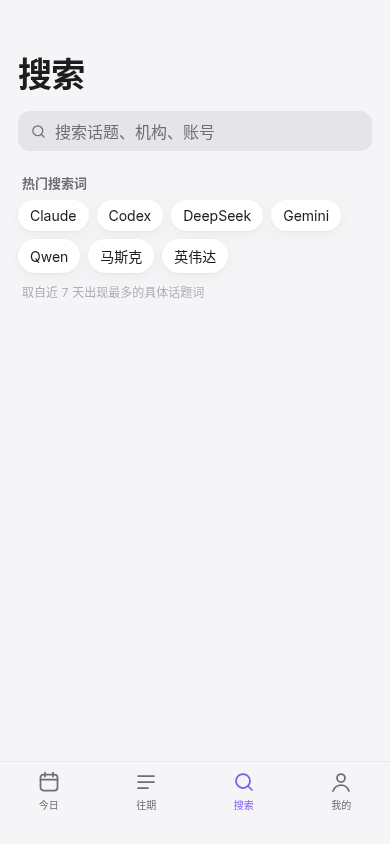
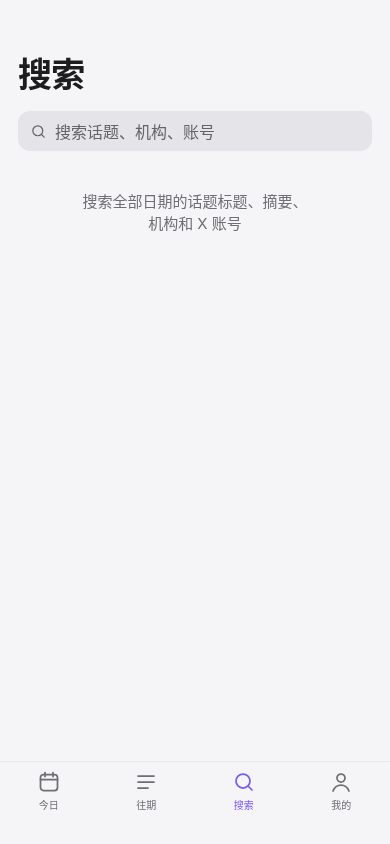
docs(design): #20 复核修改：补 404 两种状态；说明文字改 text-2，灰底文字 #636369；删除热门搜索词；mockup 日期改为从数据计算 (refs #11 #12)

diff --git a/docs/design/pages-mockup.html b/docs/design/pages-mockup.html
@@ -60,13 +60,14 @@ body{background:var(--bg);color:var(--text);font-family:"Inter","Noto Sans CJK S
 .lrow .sub{font-size:13px;color:var(--t2)}.lrow .r{margin-left:auto;color:var(--t3);display:flex;align-items:center;gap:6px;font-size:15px}
 .grp{font-size:13px;font-weight:600;color:var(--t2);margin:22px 4px 8px}
 .ico{width:30px;height:30px;border-radius:8px;display:flex;align-items:center;justify-content:center;color:#fff;flex:none}
-.sf{display:flex;align-items:center;gap:8px;background:var(--s2);border-radius:12px;height:40px;padding:0 12px;color:var(--t2);font-size:16px}
+.sf{display:flex;align-items:center;gap:8px;background:var(--s2);border-radius:12px;height:40px;padding:0 12px;color:var(--t2s);font-size:16px}
 mark{background:var(--bs);color:var(--bt);border-radius:4px;padding:0 2px}
 .stk{display:flex;height:14px;border-radius:7px;overflow:hidden;gap:2px}
 .tg{display:inline-flex;align-items:center;gap:6px;font-size:14px;padding:7px 12px;border-radius:99px;background:var(--surface);box-shadow:var(--sh)}
 .sheet{position:fixed;left:0;right:0;bottom:0;background:var(--surface);border-radius:22px 22px 0 0;padding:10px 18px 40px}
 .input{height:46px;border-radius:12px;background:var(--s2);display:flex;align-items:center;padding:0 14px;font-size:16px}
 .followhl{box-shadow:inset 0 0 0 1.5px var(--brand),var(--sh)}
+:root{--t2s:#636369}.dark{--t2s:#98989D}
 </style></head><body><div id="app"></div><script>
 const Q=new URLSearchParams(location.search),view=Q.get('v')||'home',dark=Q.get('t')==='dark';if(dark)document.body.classList.add('dark');
 const I={search:'<circle cx="11" cy="11" r="7"/><path d="M20 20l-3.5-3.5"/>',share:'<path d="M12 3v12M7.5 7.5L12 3l4.5 4.5M5 13v6a2 2 0 002 2h10a2 2 0 002-2v-6"/>',today:'<rect x="3.5" y="4.5" width="17" height="16" rx="3"/><path d="M3.5 9.5h17M8 2.5v4M16 2.5v4"/>',past:'<path d="M4 6h16M4 12h16M4 18h10"/>',me:'<circle cx="12" cy="8" r="4"/><path d="M4 21c1.5-4 4.5-6 8-6s6.5 2 8 6"/>',back:'<path d="M15 5l-7 7 7 7"/>',chev:'<path d="M9 5l7 7-7 7"/>',spark:'<path d="M12 3v4M12 17v4M3 12h4M17 12h4"/>',star:'<path d="M12 3.5l2.6 5.3 5.9.9-4.3 4.1 1 5.8L12 16.9l-5.2 2.7 1-5.8L3.5 9.7l5.9-.9z"/>',bm:'<path d="M6 3.5h12v17l-6-4-6 4z"/>',link:'<path d="M10 14a4 4 0 005.7 0l3-3a4 4 0 00-5.7-5.7l-1 1M14 10a4 4 0 00-5.7 0l-3 3a4 4 0 005.7 5.7l1-1"/>',img:'<rect x="3.5" y="4.5" width="17" height="15" rx="3"/><circle cx="9" cy="10" r="1.8"/><path d="M20.5 16l-5-5-8 8.5"/>',ext:'<path d="M14 4h6v6M20 4l-9 9M18 14v5a1 1 0 01-1 1H5a1 1 0 01-1-1V7a1 1 0 011-1h5"/>'};
@@ -76,41 +77,41 @@ const fmt=n=>n>=1e4?(n/1e4).toFixed(n>=1e5?0:1)+' 万':n.toLocaleString();
 
 const CC={'大模型':'#7D5AF0','产品':'#34C759','政策':'#FF9500','中文圈':'#FF2D55','科研':'#5AC8FA','融资':'#AF52DE','开源':'#30B0C7','安全':'#FF3B30','芯片':'#A2845E','就业':'#8E8E93'};
 fetch('../../data/2026-10-10.json').then(r=>r.json()).then(d=>{
- const S=d.stories, wd='星期六';
+ const S=d.stories;const [Y,Mo,Da]=d.date.split('-').map(Number);const dt=new Date(Date.UTC(Y,Mo-1,Da));const WDN='日一二三四五六';const MD=`${Mo}月${Da}日`,WD='星期'+WDN[dt.getUTCDay()],WS='周'+WDN[dt.getUTCDay()];
+ const dow=(dt.getUTCDay()+6)%7;const mon=new Date(dt-dow*864e5),sun=new Date(+mon+6*864e5);const th=new Date(+dt+(3-dow)*864e5);const wk=1+Math.round((th-Date.UTC(th.getUTCFullYear(),0,4))/864e5/7-(3-((new Date(Date.UTC(th.getUTCFullYear(),0,4)).getUTCDay()+6)%7))/7);const fm=x=>`${x.getUTCMonth()+1}月${x.getUTCDate()}日`;const EARLY=MD;
  const tab=(on)=>`<div class="tab">${[['today','今日'],['past','往期'],['search','搜索'],['me','我的']].map(([i,n])=>`<div class="${n===on?'on':''}">${ic(i)}${n}</div>`).join('')}</div>`;
  const top=(t,sub)=>`<div class="lt" style="margin:0 0 ${sub?2:16}px">${t}</div>${sub?`<div style="font-size:13px;color:var(--t2);margin-bottom:16px">${sub}</div>`:''}`;
  const seg3=on=>`<div class="seg" style="margin-bottom:18px">${['日报','趋势','周报'].map(x=>`<span class="${x===on?'on':''}">${x}</span>`).join('')}</div>`;
- const mini=(s,extra='')=>`<div class="card ${extra}" style="padding:14px 16px"><div class="meta" style="margin-bottom:6px">${extra?'<span class="pill new">'+ic('star','width:12px;height:12px')+' 关注</span>':'<span class="pill new">新</span>'}${s.org_tag} · 10月10日</div><h3 class="cl2" style="font-size:16px;line-height:22px;margin:0">${s.headline_zh}</h3></div>`;
+ const mini=(s,extra='')=>`<div class="card ${extra}" style="padding:14px 16px"><div class="meta" style="margin-bottom:6px">${extra?'<span class="pill new">'+ic('star','width:12px;height:12px')+' 关注</span>':'<span class="pill new">新</span>'}${s.org_tag} · ${MD}</div><h3 class="cl2" style="font-size:16px;line-height:22px;margin:0">${s.headline_zh}</h3></div>`;
  let h='';
  const v=view;
  if(v==='archive'){h=`<div style="padding:54px 18px 110px">${top('往期')}${seg3('日报')}
-  <div class="grp">2026 年 10 月</div><div class="block" style="padding:0">
-  <div class="lrow"><div style="width:44px;text-align:center"><div style="font-size:22px;font-weight:700;line-height:1">10</div><div style="font-size:11px;color:var(--t2)">周六</div></div><div style="flex:1;min-width:0"><div style="font-weight:600">今日三件事 · ${S.length} 个话题</div><div class="sub cl2" style="margin-top:2px">${d.highlights[0]}</div></div><span class="r">${ic('chev','width:15px;height:15px')}</span></div></div>
-  <div style="text-align:center;font-size:13px;color:var(--t2);margin-top:18px;line-height:20px">日报从 10 月 10 日开始，每天 08:50 左右更新。<br>满两天以后，可以在"趋势"里看热度变化。</div></div>${tab('往期')}`}
+  <div class="grp">${Y} 年 ${Mo} 月</div><div class="block" style="padding:0">
+  <div class="lrow"><div style="width:44px;text-align:center"><div style="font-size:22px;font-weight:700;line-height:1">${Da}</div><div style="font-size:11px;color:var(--t2)">${WS}</div></div><div style="flex:1;min-width:0"><div style="font-weight:600">今日三件事 · ${S.length} 个话题</div><div class="sub cl2" style="margin-top:2px">${d.highlights[0]}</div></div><span class="r">${ic('chev','width:15px;height:15px')}</span></div></div>
+  <div style="text-align:center;font-size:13px;color:var(--t2);margin-top:18px;line-height:20px">日报从 ${EARLY.replace("月"," 月 ").replace("日"," 日")}开始，每天 08:50 左右更新。<br>满两天以后，可以在"趋势"里看热度变化。</div></div>${tab('往期')}`}
  if(v==='trend'){const cats={};S.forEach(s=>s.categories.forEach(c=>cats[c]=(cats[c]||0)+1));const cs=Object.entries(cats).sort((a,b)=>b[1]-a[1]);const tot=cs.reduce((a,b)=>a+b[1],0);
   const tops={};S.forEach(s=>s.topics.forEach(t=>tops[t]=(tops[t]||0)+1));const ts=Object.entries(tops).sort((a,b)=>b[1]-a[1]).slice(0,6);
   h=`<div style="padding:54px 18px 110px">${top('往期')}${seg3('趋势')}
   <div class="block" style="margin-bottom:12px"><div class="lab">每日分类分布</div><div style="display:flex;align-items:center;gap:10px;margin-top:8px"><span style="font-size:13px;color:var(--t2);width:40px">10/10</span><div class="stk" style="flex:1">${cs.map(([c,n])=>`<i style="flex:${n};background:${CC[c]||'#8E8E93'}"></i>`).join('')}</div></div>
   <div style="display:flex;flex-wrap:wrap;gap:6px 14px;margin-top:14px">${cs.map(([c,n])=>`<span style="font-size:12px;color:var(--t2);display:flex;align-items:center;gap:5px"><i style="width:8px;height:8px;border-radius:50%;background:${CC[c]||'#8E8E93'}"></i>${c} ${n}</span>`).join('')}</div>
-  <div style="font-size:12px;color:var(--t3);margin-top:12px">目前只有 1 天数据，每多一天就多一行。</div></div>
+  <div style="font-size:12px;color:var(--t2);margin-top:12px">目前只有 1 天数据，每多一天就多一行。</div></div>
   <div class="block" style="padding:0;margin-bottom:12px"><div class="lab" style="padding:14px 16px 0">分类累计</div>${cs.slice(0,5).map(([c,n])=>`<div class="lrow"><i style="width:10px;height:10px;border-radius:3px;background:${CC[c]}"></i>${c}<span class="r" style="color:var(--t2)">${n} 个话题 · ${Math.round(n/tot*100)}%</span></div>`).join('')}</div>
   <div class="block" style="padding:0"><div class="lab" style="padding:14px 16px 0">高频话题词</div>${ts.map(([t,n])=>`<div class="lrow">${t}<span class="r" style="color:var(--t2)">${n} 次</span></div>`).join('')}</div></div>${tab('往期')}`}
  if(v==='weekly'){const T=[...S].sort((a,b)=>b.heat-a.heat).slice(0,10);
   h=`<div style="padding:54px 18px 110px">${top('往期')}${seg3('周报')}
-  <div style="display:flex;align-items:center;justify-content:space-between;margin-bottom:14px"><span style="color:var(--t3)">${ic('back','width:20px;height:20px')}</span><div style="text-align:center"><div style="font-size:17px;font-weight:700">2026 年第 41 周</div><div style="font-size:13px;color:var(--t2)">10月5日 – 10月11日 · <span style="color:var(--bt);font-weight:600">截至今天</span></div></div><span style="color:var(--t3);opacity:.4">${ic('chev','width:20px;height:20px')}</span></div>
+  <div style="display:flex;align-items:center;justify-content:space-between;margin-bottom:14px"><span style="color:var(--t3)">${ic('back','width:20px;height:20px')}</span><div style="text-align:center"><div style="font-size:17px;font-weight:700">${th.getUTCFullYear()} 年第 ${wk} 周</div><div style="font-size:13px;color:var(--t2)">${fm(mon)} – ${fm(sun)} · <span style="color:var(--bt);font-weight:600">截至今天</span></div></div><span style="color:var(--t3);opacity:.4">${ic('chev','width:20px;height:20px')}</span></div>
   <div class="sec" style="font-size:17px;margin-bottom:10px">本周 Top 10</div>
-  <div class="block" style="padding:0;margin-bottom:22px">${T.map((s,i)=>`<div class="lrow" style="align-items:flex-start"><b style="width:18px;color:${i<3?'var(--bt)':'var(--t3)'};font-weight:700">${i+1}</b><div style="flex:1;min-width:0"><div class="cl2" style="font-size:15px;line-height:21px">${s.headline_zh}</div><div class="sub" style="margin-top:3px">${s.org_tag} · 10月10日 · 热度 ${s.heat}</div></div></div>`).join('')}</div>
+  <div class="block" style="padding:0;margin-bottom:22px">${T.map((s,i)=>`<div class="lrow" style="align-items:flex-start"><b style="width:18px;color:${i<3?'var(--bt)':'var(--t2)'};font-weight:700">${i+1}</b><div style="flex:1;min-width:0"><div class="cl2" style="font-size:15px;line-height:21px">${s.headline_zh}</div><div class="sub" style="margin-top:3px">${s.org_tag} · ${MD} · 热度 ${s.heat}</div></div></div>`).join('')}</div>
   <div class="sec" style="font-size:17px;margin-bottom:10px">反复出现的话题</div>
   <div class="block"><div class="first"><div class="dot">${ic('spark')}</div><div><div style="font-size:15px;font-weight:600">本周还没有反复出现的话题</div><div style="font-size:13px;color:var(--t2);margin-top:2px">同一个话题在 2 天及以上出现过，才会列在这里</div></div></div></div>
   <div class="btn s" style="margin-top:16px">${ic('img')}保存周报图</div></div>${tab('往期')}`}
  if(v==='search'){const q='Claude';const R=S.filter(s=>(s.headline_zh+s.summary_zh+s.topics.join()).includes(q));const hl=t=>t.split(q).join('<mark>'+q+'</mark>');
   h=`<div style="padding:54px 18px 110px">${top('搜索')}<div class="sf" style="margin-bottom:12px;color:var(--text)">${ic('search','width:17px;height:17px;color:var(--t2)')}${q}<span style="margin-left:auto;width:18px;height:18px;border-radius:50%;background:var(--t3);color:var(--surface);display:flex;align-items:center;justify-content:center;font-size:11px">✕</span></div>
-  <div style="display:flex;gap:8px;margin-bottom:16px;flex-wrap:wrap"><span class="pill" style="background:var(--text);color:var(--bg);padding:5px 12px">全部 ${R.length}</span><span class="pill" style="background:var(--s2);color:var(--t2);padding:5px 12px">产品</span><span class="pill" style="background:var(--s2);color:var(--t2);padding:5px 12px">大模型</span><span class="pill" style="background:var(--s2);color:var(--t2);padding:5px 12px">安全</span></div>
+  <div style="display:flex;gap:8px;margin-bottom:16px;flex-wrap:wrap"><span class="pill" style="background:var(--text);color:var(--bg);padding:5px 12px">全部 ${R.length}</span><span class="pill" style="background:var(--s2);color:var(--t2s);padding:5px 12px">产品</span><span class="pill" style="background:var(--s2);color:var(--t2s);padding:5px 12px">大模型</span><span class="pill" style="background:var(--s2);color:var(--t2s);padding:5px 12px">安全</span></div>
   <div style="font-size:13px;color:var(--t2);margin:0 4px 10px">找到 ${R.length} 个话题，范围是全部日期</div>
-  <div style="display:grid;gap:12px">${R.map(s=>`<div class="card"><div class="meta">${s.org_tag} · 10月10日</div><h3 class="cl2">${hl(s.headline_zh)}</h3><p class="cl2">${hl(s.summary_zh)}</p></div>`).join('')}</div></div>${tab('搜索')}`}
+  <div style="display:grid;gap:12px">${R.map(s=>`<div class="card"><div class="meta">${s.org_tag} · ${MD}</div><h3 class="cl2">${hl(s.headline_zh)}</h3><p class="cl2">${hl(s.summary_zh)}</p></div>`).join('')}</div></div>${tab('搜索')}`}
  if(v==='searchempty'){h=`<div style="padding:54px 18px 110px">${top('搜索')}<div class="sf" style="margin-bottom:22px">${ic('search','width:17px;height:17px')}搜索话题、机构、账号</div>
-  <div class="grp" style="margin-top:0">热门搜索词</div><div style="display:flex;flex-wrap:wrap;gap:8px">${['Claude','Codex','DeepSeek','Gemini','Qwen','马斯克','英伟达'].map(t=>`<span class="tg">${t}</span>`).join('')}</div>
-  <div style="font-size:12px;color:var(--t3);margin:10px 4px 0">取自近 7 天出现最多的具体话题词</div></div>${tab('搜索')}`}
+  <div style="text-align:center;font-size:15px;color:var(--t2);line-height:22px;margin-top:40px">搜索全部日期的话题标题、摘要、<br>机构和 X 账号</div></div>${tab('搜索')}`}
  if(v==='me'){h=`<div style="padding:54px 18px 110px">${top('我的')}
   <div class="block" style="padding:0"><div class="lrow"><div class="ico" style="background:#FF9500">${ic('bm','width:17px;height:17px')}</div><div>收藏</div><span class="r"><span style="color:var(--t2)">2</span>${ic('chev','width:15px;height:15px')}</span></div>
   <div class="lrow"><div class="ico" style="background:#7D5AF0">${ic('star','width:17px;height:17px')}</div><div>关注</div><span class="r"><span style="color:var(--t2)">3</span>${ic('chev','width:15px;height:15px')}</span></div></div>
@@ -118,9 +119,9 @@ fetch('../../data/2026-10-10.json').then(r=>r.json()).then(d=>{
   <div class="grp">设置</div><div class="block" style="padding:0"><div class="lrow">外观<span class="r" style="color:var(--text)"><span class="seg" style="width:150px">${dark?"<span>浅色</span><span class=\"on\">深色</span>":"<span class=\"on\">浅色</span><span>深色</span>"}</span></span></div>
   <div class="lrow"><div>导出数据<div class="sub">下载全部日报的 JSON</div></div><span class="r">${ic('chev','width:15px;height:15px')}</span></div>
   <div class="lrow"><div>关于 AI 热点日报<div class="sub">数据来源与更新时间</div></div><span class="r">${ic('chev','width:15px;height:15px')}</span></div></div>
-  <div style="font-size:12px;color:var(--t3);margin:14px 4px;line-height:18px">收藏和关注只保存在这台设备的浏览器里，换设备不会同步。上面的收藏数和关注项是示例。</div></div>${tab('我的')}`}
+  <div style="font-size:12px;color:var(--t2);margin:14px 4px;line-height:18px">收藏和关注只保存在这台设备的浏览器里，换设备不会同步。</div></div>${tab('我的')}`}
  if(v==='follow'){const F=S.filter(s=>s.org_tag==='Anthropic'||JSON.stringify(s).toLowerCase().includes('codex')||s.source_posts.some(p=>p.handle==='claudeai'));
-  h=`<div style="padding:54px 18px 110px"><div class="eyebrow">10月10日 星期六</div>${top('今日热点')}
+  h=`<div style="padding:54px 18px 110px"><div class="eyebrow">${MD} ${WD}</div>${top('今日热点')}
   <div class="seg" style="margin-bottom:12px"><span>全部</span><span class="on">关注 ${F.length}</span><span>大模型</span><span>产品</span><span>政策</span></div>
   <div style="display:flex;align-items:center;gap:6px;font-size:13px;color:var(--t2);margin:0 4px 12px">只看关注：Anthropic、Codex、@claudeai<span style="margin-left:auto;color:var(--bt)">管理</span></div>
   <div style="display:grid;gap:12px">${F.map(s=>{const why=s.org_tag==='Anthropic'?'Anthropic':(s.source_posts.some(p=>p.handle==='claudeai')?'@claudeai':'Codex');return `<div class="card followhl"><div class="meta"><span class="pill new">${ic('star','width:12px;height:12px')} ${why}</span>${s.org_tag} · ${s.source_posts.length} 条原帖</div><h3 class="cl2">${s.headline_zh}</h3><p class="cl2">${s.summary_zh}</p></div>`}).join('')}</div></div>${tab('今日')}`}
@@ -131,10 +132,12 @@ fetch('../../data/2026-10-10.json').then(r=>r.json()).then(d=>{
   <div class="input" style="margin-bottom:8px">Gemini<span style="margin-left:auto;width:2px;height:22px;background:var(--brand)"></span></div>
   <div style="font-size:13px;color:var(--t2);margin:0 4px 18px">会匹配标题、摘要、话题词和原帖内容，不区分大小写。</div>
   <div class="grp" style="margin-top:0">今天出现过的机构</div><div style="display:flex;flex-wrap:wrap;gap:8px">${[...new Set(S.map(s=>s.org_tag))].slice(0,8).map(o=>`<span class="tg" style="background:var(--s2);box-shadow:none">${o}</span>`).join('')}</div>
-  <div style="font-size:12px;color:var(--t3);margin:16px 4px 0">已关注 3 个，最多 50 个</div></div>`}
- if(v==='followempty'){h=`<div style="padding:54px 18px 110px"><div class="eyebrow">10月10日 星期六</div>${top('今日热点')}
+  <div style="font-size:12px;color:var(--t2);margin:16px 4px 0">已关注 3 个，最多 50 个</div></div>`}
+ if(v==='followempty'){h=`<div style="padding:54px 18px 110px"><div class="eyebrow">${MD} ${WD}</div>${top('今日热点')}
   <div class="seg" style="margin-bottom:40px"><span>全部</span><span class="on">关注</span><span>大模型</span><span>产品</span><span>政策</span></div>
   <div style="text-align:center;padding:0 24px"><div style="width:64px;height:64px;border-radius:18px;background:var(--bs);color:var(--bt);display:flex;align-items:center;justify-content:center;margin:0 auto 16px">${ic('star','width:30px;height:30px')}</div><div style="font-size:20px;font-weight:700;margin-bottom:6px">还没有关注任何内容</div><div style="font-size:15px;color:var(--t2);line-height:22px;margin-bottom:20px">关注账号、机构或关键词，相关话题会在首页高亮，也可以在这里只看它们。</div><div class="btn p" style="width:200px;margin:0 auto">添加关注</div></div></div>${tab('今日')}`}
+
+ if(v==='nf-day'||v==='nf-story'){const day=v==='nf-day';h=`<div style="padding:54px 18px 110px"><div style="text-align:center;padding:120px 24px 0"><div style="width:64px;height:64px;border-radius:18px;background:var(--bs);color:var(--bt);display:flex;align-items:center;justify-content:center;margin:0 auto 16px">${ic(day?'today':'search','width:30px;height:30px')}</div><div style="font-size:20px;font-weight:700;margin-bottom:6px">${day?'这一天没有日报':'找不到这个话题'}</div><div style="font-size:15px;color:var(--t2);line-height:22px;margin-bottom:24px">${day?`日报从 ${EARLY} 开始，每天早上更新`:'链接可能写错了，或者这个话题已经不在了'}</div><div class="btn p" style="width:200px;margin:0 auto">回到今日</div>${day?'<div class="btn s" style="width:200px;margin:10px auto 0">看往期</div>':''}</div></div>${tab('')}`}
  document.getElementById('app').innerHTML=h;
 });
 </script></body></html>

diff --git a/docs/design/pages-v1.md b/docs/design/pages-v1.md
@@ -2,10 +2,13 @@
 
 > 关联 Issue #11（F4 关注）、#12（F5 周报），需求以 PRD v6（`docs/product/PRD-v6.md`）为准，视觉以 `visual-spec-v1.md` 和 `tokens.css` 为准。
 > 内容来自真实数据 `data/2026-10-10.json`；收藏数和关注项（Anthropic、Codex、@claudeai）是示例。
-> 源文件是 [`pages-mockup.html`](pages-mockup.html)，在仓库根目录起静态服务后按 `?v=archive|trend|weekly|searchempty|search|me|follow|addfollow|followempty&t=light|dark` 打开。
+> 源文件是 [`pages-mockup.html`](pages-mockup.html)，在仓库根目录起静态服务后按 `?v=archive|trend|weekly|searchempty|search|me|follow|addfollow|followempty|nf-day|nf-story&t=light|dark` 打开。日期、星期、周编号都从数据里的 `date` 算出来，mockup 里没有写死。
 
 ![往期与搜索](assets/pages/overview-tabs.png)
 ![我的与 F4](assets/pages/overview-me-f4.png)
+![404](assets/pages/overview-404.png)
+
+**说明文字的颜色**：界面里所有说明性的小字（提示、上限、数据说明、序号）一律用 `text-2`，不用 `text-3`，因为 `text-3` 在浅色底上只有 2.0 到 2.8:1。`text-3` 只用于箭头、分隔这类非文字元素。灰底（`surface-2`）上的文字，浅色模式用 `#636369`（4.78:1），深色模式用 `text-2`。
 
 电脑端沿用高保真稿（`hifi-v1.md`）的三栏结构：左侧导航切到对应页，中间放本页内容，最大宽度和首页一致；右侧栏在这几页里不显示。深色模式只换 token，不另出版式。
 
@@ -26,15 +29,15 @@
 
 ### 1.3 周报（`weekly-mobile-light.png`），对应 F5
 - 周选择器：左右箭头加居中标题"2026 年第 41 周"，副标题"10月5日 – 10月11日"。本周没过完时，在副标题后面加紫色的"**截至今天**"（`brand-text`）；当前周的右箭头置灰。
-- **本周 Top 10**：一个白色块，每行是名次（前 3 名用 `brand-text`，其余用 `text-3`）、标题（最多两行）、"机构 · 日期 · 热度"。点击进入 `/story/<id>`。
+- **本周 Top 10**：一个白色块，每行是名次（前 3 名用 `brand-text`，其余用 `text-2`）、标题（最多两行）、"机构 · 日期 · 热度"。点击进入 `/story/<id>`。
 - **反复出现的话题**：每行是话题词和"N 天"；没有内容时用和详情页"首次出现"相同的空状态卡片，文案是"本周还没有反复出现的话题"。
 - 本周完全没有数据时，整页只显示一个空状态卡片：本周还没有日报。
 - 底部的"保存周报图"按钮先保留位置，周报分享图不在 v6 范围内，开发可以先不做。
 
 ## 2. 搜索 `/search?q=`
 
-- 初始状态（`searchempty-mobile-light.png`）：搜索框（`surface-2`，高 40，圆角 12），占位文字是"搜索话题、机构、账号"。下面是"热门搜索词"，取近 7 天出现最多的具体话题词（排除宽泛词），点一下就搜。
-- 结果状态（`search-mobile-light.png`）：分类筛选做成可横向滚动的 chips，第一个是"全部 N"，用深色实底；下面一行灰字写"找到 N 个话题，范围是全部日期"。结果卡片和首页卡片一样，元信息里加上日期，命中的文字用 `mark` 标出（`brand-soft` 底，`brand-text` 字，圆角 4）。
+- 初始状态（`searchempty-mobile-light.png`）：搜索框（`surface-2`，高 40，圆角 12），占位文字是"搜索话题、机构、账号"，颜色按上面灰底的规则。下面居中一行 `text-2` 说明："搜索全部日期的话题标题、摘要、机构和 X 账号"。（"热门搜索词"这次不做，贾维斯 2026-10-10 定的。）
+- 结果状态（`search-mobile-light.png`）：分类筛选做成可横向滚动的 chips，第一个是"全部 N"，用深色实底，其余 chips 是灰底，文字颜色按上面灰底的规则；下面一行灰字写"找到 N 个话题，范围是全部日期"。结果卡片和首页卡片一样，元信息里加上日期，命中的文字用 `mark` 标出（`brand-soft` 底，`brand-text` 字，圆角 4）。
 - 没有结果时：搜索框下方居中显示"没有找到和'xxx'相关的话题"，再给一个"清空"按钮。
 
 ## 3. 我的 `/me`（`me-mobile-light.png` / `me-mobile-dark.png`）
@@ -51,5 +54,16 @@
 - **添加关注**（`addfollow-mobile-light.png`）：从底部弹出，圆角 22，遮罩是 32% 的黑色。顶部是"取消 / 添加关注 / 完成"，下面是"账号 / 机构 / 关键词"三段，再下面是输入框，底下用一行小字说明匹配规则。机构模式下提供"今天出现过的机构"作为快捷选项。底部显示"已关注 N 个，最多 50 个"，到 50 个时"完成"按钮置灰，并用这一行提示上限。
 - **空状态**（`followempty-mobile-light.png`）：一个 64×64 的紫色软底星标、标题"还没有关注任何内容"、一句说明，再加一个主按钮"添加关注"。
 
-## 5. 对 hifi-v1 的更正
+## 5. 404 页（`overview-404.png`）
+
+日期不存在（`/day/<date>`）和话题不存在（`/story/<id>`）都返回 404 状态码，页面上沿用空状态的版式：64×64 的 `brand-soft` 底图标、20/700 的标题、15px 的 `text-2` 说明，下面是宽 200 的按钮。底部标签栏照常显示，但不高亮任何一项。
+
+| 情况 | 图标 | 标题 | 说明 | 按钮 |
+|---|---|---|---|---|
+| 日期不存在 | 日历 | 这一天没有日报 | 日报从 {最早日期} 开始，每天早上更新 | 主按钮"回到今日"跳到 `/`；次按钮"看往期"跳到 `/archive` |
+| 话题不存在 | 搜索 | 找不到这个话题 | 链接可能写错了，或者这个话题已经不在了 | 主按钮"回到今日"跳到 `/` |
+
+{最早日期} 从 `/api/days` 取最早的一天，格式是"10月10日"，不要写死。404 页的 HTML 里不输出 og 标签。
+
+## 6. 对 hifi-v1 的更正
 首页"全部话题"右边的"按热度"去掉，默认按 `rank` 排序（PRD v6 F1），`hifi-mockup.html` 和首页的 5 张基准截图已重新生成。`mobile-overview.png` 只是总览拼图，不作为基准，仍是旧版。
